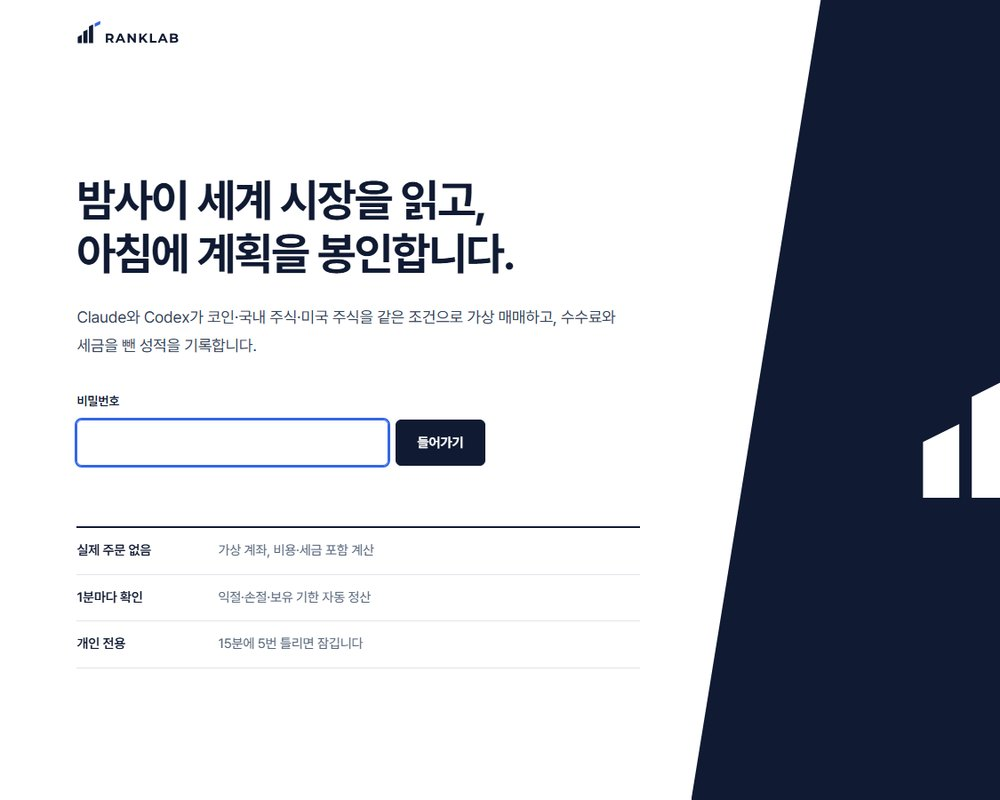
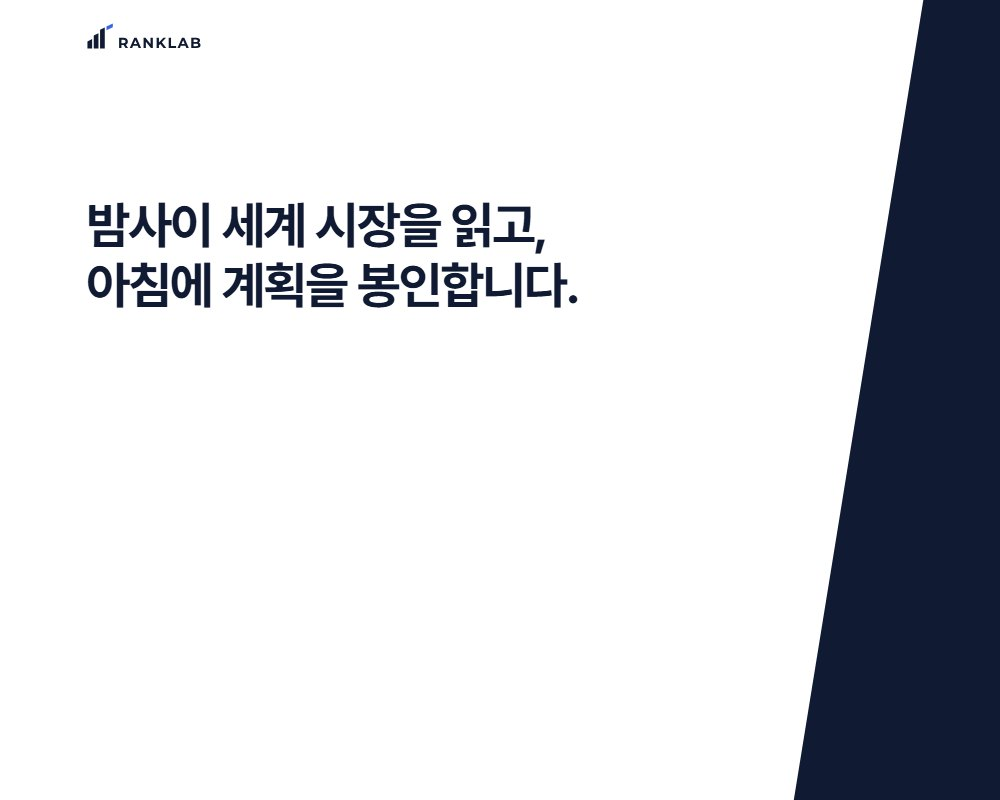
Ranklab 표기·소개를 주식·코인 자동매매로, 가상 매매 문구 제거

diff --git a/index.html b/index.html
@@ -51,7 +51,7 @@
 <li><a href="/work/#pay"><strong>Paylist</strong></a><span><span class="sr">주요 기능: </span>체험단 정산 목록을 은행 대량이체 파일로 변환</span><span class="kind"><span class="sr">구분: </span>정산 업무 도구</span><span class="since"><span class="sr">시작 연도: </span>2026</span></li>
 <li><a href="/products/guild-lounge/"><strong>Guild Lounge</strong></a><span><span class="sr">주요 기능: </span>게임 길드 랭킹 자동 수집, 성장 기록, 일정 알림</span><span class="kind"><span class="sr">구분: </span>게임 길드 웹·iOS 앱</span><span class="since"><span class="sr">시작 연도: </span>2025</span></li>
 <li><a href="/products/wedding/"><strong>Snapwed</strong></a><span><span class="sr">주요 기능: </span>QR 코드로 하객 사진과 영상을 모으는 결혼식 갤러리</span><span class="kind"><span class="sr">구분: </span>결혼식 사진 공유</span><span class="since"><span class="sr">시작 연도: </span>2026</span></li>
-<li><a href="/work/#ranklab-lab"><strong>RANKLAB</strong></a><span><span class="sr">주요 기능: </span>AI 가상 매매와 성적 기록 대시보드 (실제 주문 없음)</span><span class="kind"><span class="sr">구분: </span>AI 가상 매매 실험실</span><span class="since"><span class="sr">시작 연도: </span>2026</span></li>
+<li><a href="/work/#ranklab-lab"><strong>Ranklab</strong></a><span><span class="sr">주요 기능: </span>주식·코인 자동매매, 시세 수집, 성과 대시보드</span><span class="kind"><span class="sr">구분: </span>주식·코인 자동매매</span><span class="since"><span class="sr">시작 연도: </span>2026</span></li>
 </ol>
 </div></div></section>
 
@@ -79,9 +79,9 @@
 <h3>Snapwed</h3><span class="kind">결혼식 사진 공유 · 2026</span>
 <p>하객이 QR 코드를 찍으면 앱 설치나 로그인 없이 사진과 영상을 올리는 결혼식 갤러리입니다. 2026년 6월 실제 결혼식에서 사용했습니다.</p>
 <div class="links"><a class="more" href="/products/wedding/">자세히 보기</a></div><small>화면 속 이름은 예시입니다.</small></article>
-<article id="ranklab-lab"><div class="shot web"><img src="/assets/work/ranklab-card-500.jpg" srcset="/assets/work/ranklab-card-500.jpg 500w, /assets/work/ranklab-card-1000.jpg 1000w" sizes="(max-width: 720px) 92vw, 300px" width="500" height="400" alt="RANKLAB 첫 화면: 가상 매매 실험실 소개와 실제 주문 없음 안내" loading="lazy" decoding="async"></div>
-<h3>RANKLAB</h3><span class="kind">AI 가상 매매 실험실 · 2026</span>
-<p>개인용 실험실입니다. Claude와 Codex가 정해 둔 규칙으로 코인과 국내·미국 주식을 가상 매매하고, 수수료·세금 가정을 적용한 결과를 기록합니다. 시세 수집과 자동 정산, 대시보드를 직접 만들어 매일 돌립니다. 실제 주문은 하지 않습니다.</p>
+<article id="ranklab-lab"><div class="shot web"><img src="/assets/work/ranklab-card-500.jpg" srcset="/assets/work/ranklab-card-500.jpg 500w, /assets/work/ranklab-card-1000.jpg 1000w" sizes="(max-width: 720px) 92vw, 300px" width="500" height="400" alt="Ranklab 첫 화면: 서비스 소개 문구와 로고" loading="lazy" decoding="async"></div>
+<h3>Ranklab</h3><span class="kind">주식·코인 자동매매 · 2026</span>
+<p>Claude와 Codex가 정해 둔 규칙으로 코인과 국내·미국 주식의 매매를 자동으로 판단하고, 수수료와 세금까지 계산해 성과를 기록합니다. 시세 수집과 자동 정산, 대시보드를 직접 만들어 매일 돌립니다.</p>
 <small>개인 전용 화면이라 링크는 공개하지 않습니다.</small></article>
 </div></div>
 </div></section>

diff --git a/work/index.html b/work/index.html
@@ -64,9 +64,9 @@
 <h3>Snapwed</h3><span class="kind">결혼식 사진 공유 · 2026</span>
 <p>하객이 QR 코드를 찍으면 앱 설치나 로그인 없이 사진과 영상을 올리는 결혼식 갤러리입니다. 2026년 6월 실제 결혼식에서 사용했습니다.</p>
 <div class="links"><a class="more" href="/products/wedding/">자세히 보기</a></div><small>화면 속 이름은 예시입니다.</small></article>
-<article id="ranklab-lab"><div class="shot web"><img src="/assets/work/ranklab-card-500.jpg" srcset="/assets/work/ranklab-card-500.jpg 500w, /assets/work/ranklab-card-1000.jpg 1000w" sizes="(max-width: 720px) 92vw, 300px" width="500" height="400" alt="RANKLAB 첫 화면: 가상 매매 실험실 소개와 실제 주문 없음 안내" loading="lazy" decoding="async"></div>
-<h3>RANKLAB</h3><span class="kind">AI 가상 매매 실험실 · 2026</span>
-<p>개인용 실험실입니다. Claude와 Codex가 정해 둔 규칙으로 코인과 국내·미국 주식을 가상 매매하고, 수수료·세금 가정을 적용한 결과를 기록합니다. 시세 수집과 자동 정산, 대시보드를 직접 만들어 매일 돌립니다. 실제 주문은 하지 않습니다.</p>
+<article id="ranklab-lab"><div class="shot web"><img src="/assets/work/ranklab-card-500.jpg" srcset="/assets/work/ranklab-card-500.jpg 500w, /assets/work/ranklab-card-1000.jpg 1000w" sizes="(max-width: 720px) 92vw, 300px" width="500" height="400" alt="Ranklab 첫 화면: 서비스 소개 문구와 로고" loading="lazy" decoding="async"></div>
+<h3>Ranklab</h3><span class="kind">주식·코인 자동매매 · 2026</span>
+<p>Claude와 Codex가 정해 둔 규칙으로 코인과 국내·미국 주식의 매매를 자동으로 판단하고, 수수료와 세금까지 계산해 성과를 기록합니다. 시세 수집과 자동 정산, 대시보드를 직접 만들어 매일 돌립니다.</p>
 <small>개인 전용 화면이라 링크는 공개하지 않습니다.</small></article>
 </div>
 <ul class="svc" style="margin-top:64px">
